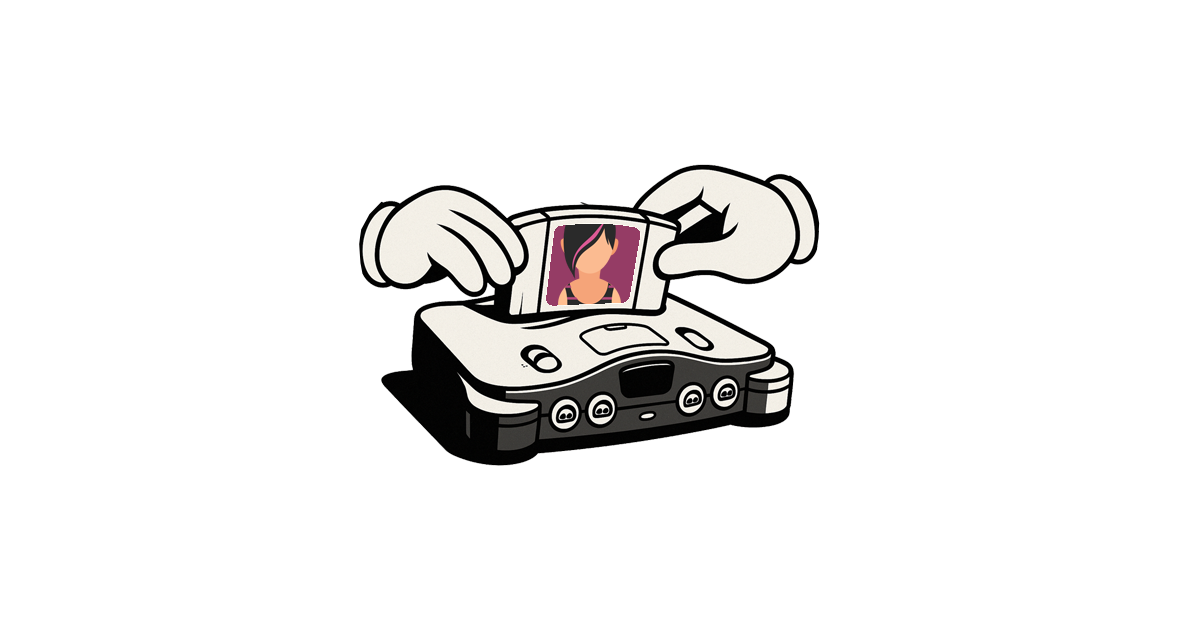
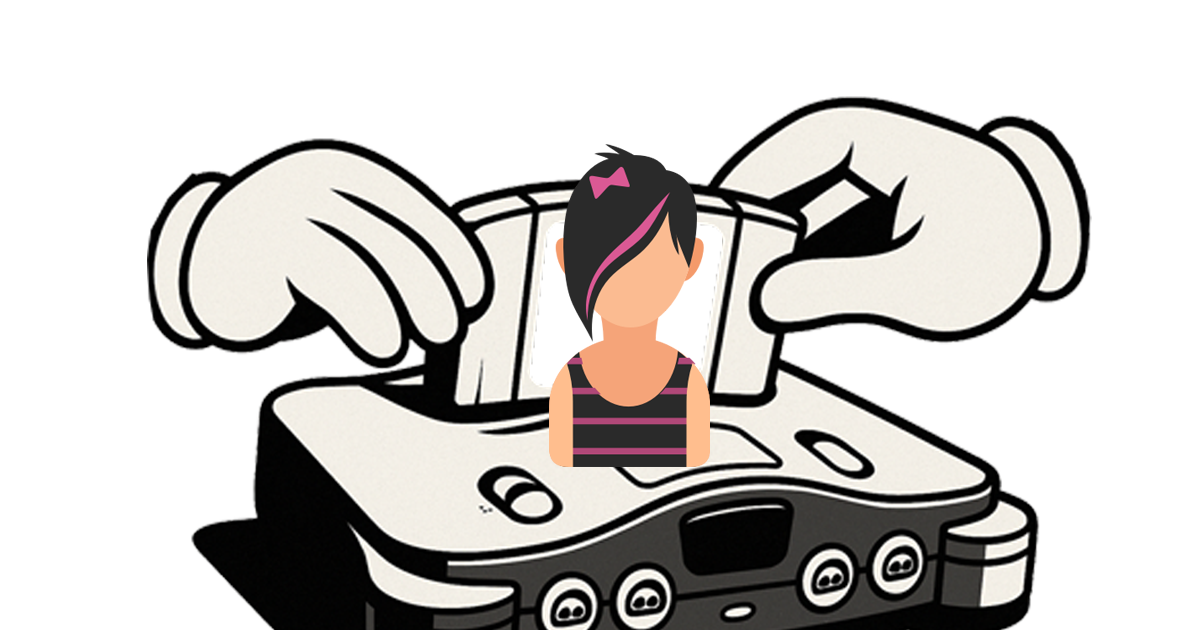
ud

diff --git a/core/components/layout/FolderPage.tsx b/core/components/layout/FolderPage.tsx
@@ -3,7 +3,7 @@ import * as React from 'react';
 import ReactMarkdown from 'react-markdown';
 import { Box, Grid, CardHeader } from '@mui/material';
 import Image from 'next/image';
-import { FolderNav, Icon } from '../../';
+import { FolderNav, Icon, AppBreadcrumb } from '../../';
 import { NavItem } from '../../../core/types';
 
 export type Frontmatter = {
@@ -29,6 +29,7 @@ export default function FolderPage({ frontmatter, content }: FolderPageProps) {
   return (
     <Box sx={{ px: 0 }}>
       <Grid container spacing={0}>
+        
         <Grid
           sx={{
             display: {
@@ -36,14 +37,15 @@ export default function FolderPage({ frontmatter, content }: FolderPageProps) {
               md: 'block',
             },
           }}
-          size={{ md: 3 }}
+          size={{ md: 4 }}
         >
-          <Box sx={{ height: 20}} />
+          <Box sx={{ height: 20 }} />
           <FolderNav />
         </Grid>
 
-        <Grid size={{ xs: 12, md: 9 }}>
+        <Grid size={{ xs: 12, md: 8 }}>
           <CardHeader
+            sx={{ ml: -2 }}
             avatar={<Icon icon={frontmatter?.icon as any} />}
             title={frontmatter?.title}
             subheader={frontmatter?.description}
@@ -74,7 +76,7 @@ export default function FolderPage({ frontmatter, content }: FolderPageProps) {
               />
             </Box>
           )}
-
+          <AppBreadcrumb />
           {content && <ReactMarkdown>{content}</ReactMarkdown>}
         </Grid>
 
@@ -87,7 +89,6 @@ export default function FolderPage({ frontmatter, content }: FolderPageProps) {
           }}
           size={{ xs: 12 }}
         >
-        
           <FolderNav />
         </Grid>
       </Grid>

diff --git a/core/components/layout/FilePage.tsx b/core/components/layout/FilePage.tsx
@@ -3,7 +3,7 @@ import React from 'react';
 import Image from 'next/image';
 import ReactMarkdown from 'react-markdown';
 import { Box, Grid, CardHeader } from '@mui/material';
-import { FolderNav, Icon } from '../../';
+import { FolderNav, Icon, AppBreadcrumb } from '../../';
 
 export type FilePageProps = {
   content: {
@@ -35,13 +35,15 @@ export default function FilePage({ content, featured }: FilePageProps) {
               md: 'block',
             },
           }}
-          size={{ md: 3 }}
+          size={{ md: 4 }}
         >
+          <Box sx={{ height: 20 }} />
           <FolderNav />
         </Grid>
 
-        <Grid size={{ xs: 12, md: 9 }}>
+        <Grid size={{ xs: 12, md: 8 }}>
           <CardHeader
+            sx={{ ml: -2 }}
             avatar={<Icon icon={frontmatter?.icon as any} />}
             title={frontmatter?.title}
             subheader={frontmatter?.description}
@@ -73,7 +75,7 @@ export default function FilePage({ content, featured }: FilePageProps) {
               />
             </Box>
           )}
-
+          <AppBreadcrumb />
           {body && <ReactMarkdown>{body}</ReactMarkdown>}
         </Grid>
 

diff --git a/core/components/nav/HeaderNav.tsx b/core/components/nav/HeaderNav.tsx
@@ -3,7 +3,7 @@ import * as React from 'react';
 import { useRouter } from 'next/navigation';
 import { Box } from '@mui/material';
 import { LightDarkToggle, NavButton } from '../../';
-import { BouncerBtn } from '../../cartridges/Bouncer';
+// import { BouncerBtn } from '../../cartridges/Bouncer';
 
 export interface IHeaderNav {
   anyKey?: any;
@@ -21,7 +21,7 @@ export default function HeaderNav() {
       <LightDarkToggle />
 
       <NavButton mode="icon" icon="home" title="Home" onClick={goHome} />
-      <BouncerBtn tooltip="Bollix" />
+      {/* <BouncerBtn tooltip="Bollix" /> */}
     </Box>
   );
 }

diff --git a/core/components/theme/Icon.tsx b/core/components/theme/Icon.tsx
@@ -125,6 +125,7 @@ export type IconShape = {
     | 'products'
     | 'speak-write'
     | 'admin'
+    | 'private'
     | 'company'
     | 'feature'
     | 'auth'
@@ -634,6 +635,11 @@ export default function Icon({ icon, color }: IconShape) {
     case 'admin':
       iconFragment = <AdminIcon color={color} />;
       break;
+
+    case 'private':
+      iconFragment = <AdminIcon color={color} />;
+      break;
+
     case 'sitemap':
       iconFragment = <SitemapIcon color={color} />;
       break;

diff --git a/app/styles.css b/app/styles.css
@@ -1,12 +1,20 @@
-a {
+
+ul, li {
+  list-style: none;
+  margin: 0;
+  padding: 0;
+  padding-left: 8px;
+}
+
+/* a {
   color: #3e3b3b;
   text-decoration: none;
-  /* font-weight: bold; */
+  font-weight: bold;
 }
 
 a:hover {
   color: #514848;
-}
+} */
 
 blockquote {
   border-left: 2px solid #c09f52;

diff --git a/public/markdown/balance/books/weekend-portfolio.md b/public/markdown/balance/books/weekend-portfolio.md
@@ -6,9 +6,6 @@ slug: /balance/books/weekend-portfolio
 icon: speak-write
 image: /jpg/products/speak-write.jpg
 ---
-
-## [Weekend Portfolio](/balance/books/weekend-portfolio)
-
 > Written for at semi-professional coders ready to go pr0
 
 In a weekend project, you’ll build a simple but powerful AI app. The idea is simple but important: you upload an .mp3 file, and the app gives you back a transcription of its contents. Nothing more

diff --git a/public/markdown/work/index.md b/public/markdown/work/index.md
@@ -4,7 +4,7 @@ title: Work
 description: Professional Fullstack JavaScript Development
 slug: /work
 icon: work
-image: /png/bouncer/bouncer.png
+image: /png/characters/chix.png
 tags: JavaScript, Vanilla JavaScript, TypeScript, React, Angular, Vue, etc, Material UI, Flash, Server Side JavaScript, Node, Gatsby, NextJS, Headless CMS
 ---
 

diff --git a/public/markdown/balance/index.md b/public/markdown/balance/index.md
@@ -12,7 +12,7 @@ image: /png/nhtfs/weizang.png
 - Wei Zang's Food
 - Weekend Portfolio
 
-### [Are you Gen X?](/balance/gen-x)
+### Are you Generation X?
 
 > Tales for an Accelerated Culture, a 1991 novel written by Canadian author Douglas Coupland
 

diff --git a/public/markdown/work/free/index.md b/public/markdown/work/free/index.md
@@ -1,6 +1,6 @@
 ---
 order: 2
-title: Free & Open Source
+title: Free on GitHub
 description: Free, Gratis and for Nothing
 slug: /work/free
 icon: star
